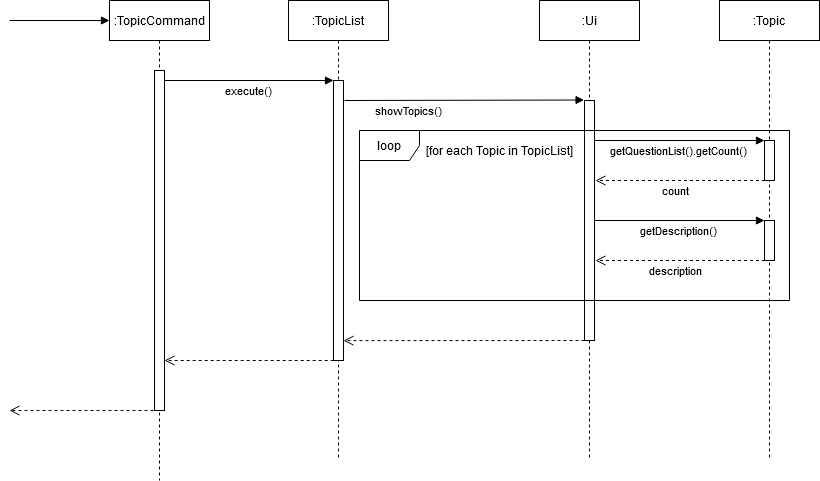
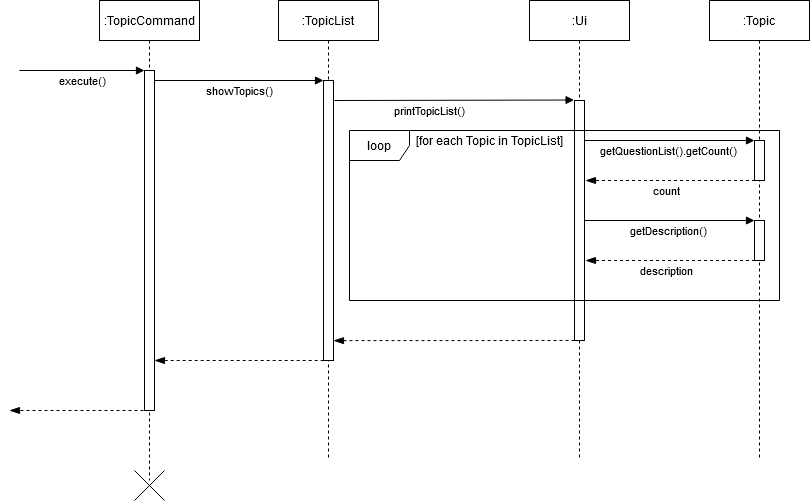
Updated UML sequence diagram + slight adjustments to UI + updated names of methods to more suitable names

diff --git a/src/main/java/seedu/eduke8/ui/Ui.java b/src/main/java/seedu/eduke8/ui/Ui.java
@@ -332,19 +332,16 @@ public class Ui {
     }
 
     public void printTopicsError(TopicList topics) {
-        System.out.println(HORIZONTAL_LINE);
 
-        System.out.println(MESSAGE_PRINT_TOPIC_LIST);
+        printWithoutLines(MESSAGE_PRINT_TOPIC_LIST);
         for (int i = 0; i < topics.getCount(); i++) {
             Topic topic = topics.get(i);
-            printMessage(OPEN_SQUARE_BRACKET + topic.getQuestionList().getCount() + CLOSE_SQUARE_BRACKET
+            printWithoutLines(OPEN_SQUARE_BRACKET + topic.getQuestionList().getCount() + CLOSE_SQUARE_BRACKET
                     + topic.getDescription());
         }
-
-        System.out.println(HORIZONTAL_LINE);
     }
 
-    public void addNoteInteractions(TopicList topicList) {
+    public void printAddNote(TopicList topicList) {
         printMessage(ADD_NOTE_PROMPT_FOR_TOPIC);
         String topicName = SCANNER.nextLine().trim();
         Ui ui = new Ui();
@@ -382,7 +379,7 @@ public class Ui {
         }
     }
 
-    public void deleteNoteInteractions(TopicList topicList) {
+    public void printDeleteNote(TopicList topicList) {
         Ui ui = new Ui();
         int noteCount = 0;
         Topic topic = null;
@@ -400,7 +397,7 @@ public class Ui {
         }
 
         if (topicList.doesTopicExist(topicName) && noteCount > 0) {
-            ui.printNoteList(noteList);
+            ui.showNotes(noteList);
 
             System.out.println(DELETE_NOTE_PROMPT_FOR_INDEX);
             String input = SCANNER.nextLine();
@@ -420,7 +417,7 @@ public class Ui {
         }
     }
 
-    public void listInteraction(TopicList topicList) {
+    public void printListNote(TopicList topicList) {
         Ui ui = new Ui();
 
         printMessage(LIST_NOTE_PROMPT);
@@ -430,7 +427,7 @@ public class Ui {
             if (topicList.doesTopicExist(topicName)) {
                 Topic topic = (Topic) topicList.find(topicName);
                 NoteList noteListTopic = topic.getNoteList();
-                ui.printNoteList(noteListTopic);
+                ui.showNotes(noteListTopic);
             } else {
                 printMessage(INVALID_TOPIC);
                 ui.printTopicsError(topicList);
@@ -441,12 +438,14 @@ public class Ui {
         }
     }
 
-    public void printNoteList(NoteList notes) {
+    public void showNotes(NoteList notes) {
 
         if (notes.getCount() == 0) {
-            printMessage(MESSAGE_PRINT_NOTE_LIST_NONE);
+            printWithoutLines(HORIZONTAL_LINE);
+            printWithoutLines(MESSAGE_PRINT_NOTE_LIST_NONE);
         } else {
-            printMessage(MESSAGE_PRINT_NOTE_LIST);
+            printWithoutLines(HORIZONTAL_LINE);
+            printWithoutLines(MESSAGE_PRINT_NOTE_LIST);
             for (int i = 0; i < notes.getCount(); i++) {
                 printWithoutLines(HORIZONTAL_LINE);
                 Note note = (Note) notes.get(i);

diff --git a/src/main/java/seedu/eduke8/command/NoteCommand.java b/src/main/java/seedu/eduke8/command/NoteCommand.java
@@ -25,13 +25,13 @@ public class NoteCommand extends Command {
     public void execute(DisplayableList displayableList, Ui ui) {
         switch (typeOfNoteCommand) {
         case (NOTE_ADD):
-            ui.addNoteInteractions(topics);
+            ui.printAddNote(topics);
             break;
         case (NOTE_DELETE):
-            ui.deleteNoteInteractions(topics);
+            ui.printDeleteNote(topics);
             break;
         case (NOTE_LIST):
-            ui.listInteraction(topics);
+            ui.printListNote(topics);
             break;
         default:
             break;
